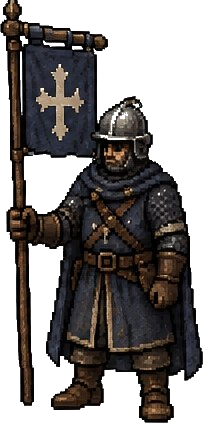
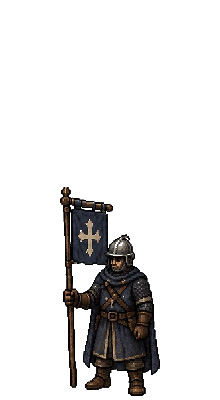
pano: нормализовать стражу под один масштаб торса
Все 01–16 → холст 220×400, одинаковая ширина торса; ряд без джиттера.

diff --git a/map.html b/map.html
@@ -1763,7 +1763,7 @@ function renderPano(npName, settlement, terrainHint, seasonName) {
   // Деревенские дворы: случайный спрайт из assets/houses/01..08.png (seeded rng).
   const HOUSE_SPRITES=['assets/houses/01.png','assets/houses/02.png','assets/houses/03.png','assets/houses/04.png','assets/houses/05.png','assets/houses/06.png','assets/houses/07.png','assets/houses/08.png'];
   const SHOP_SPRITES=['assets/shops/01.png','assets/shops/02.png','assets/shops/03.png','assets/shops/04.png','assets/shops/05.png','assets/shops/06.png','assets/shops/07.png','assets/shops/08.png'];
-  const GUARD_SPRITES=['assets/guards/01.png?v=4','assets/guards/02.png?v=4','assets/guards/03.png?v=4','assets/guards/04.png?v=4','assets/guards/05.png?v=4','assets/guards/06.png?v=4','assets/guards/07.png?v=4','assets/guards/08.png?v=4','assets/guards/09.png?v=4','assets/guards/10.png?v=4','assets/guards/11.png?v=4','assets/guards/12.png?v=4','assets/guards/13.png?v=4','assets/guards/14.png?v=4','assets/guards/15.png?v=4','assets/guards/16.png?v=4'];
+  const GUARD_SPRITES=['assets/guards/01.png?v=5','assets/guards/02.png?v=5','assets/guards/03.png?v=5','assets/guards/04.png?v=5','assets/guards/05.png?v=5','assets/guards/06.png?v=5','assets/guards/07.png?v=5','assets/guards/08.png?v=5','assets/guards/09.png?v=5','assets/guards/10.png?v=5','assets/guards/11.png?v=5','assets/guards/12.png?v=5','assets/guards/13.png?v=5','assets/guards/14.png?v=5','assets/guards/15.png?v=5','assets/guards/16.png?v=5'];
   function miniHut(x,y,sc){
     const bw=15*sc, bh=bw*1.22;
     const src=HOUSE_SPRITES[Math.floor(rng()*HOUSE_SPRITES.length)];
@@ -1775,8 +1775,8 @@ function renderPano(npName, settlement, terrainHint, seasonName) {
     return `<image href="${src}" x="${x-bw/2}" y="${y-bh}" width="${bw}" height="${bh}" preserveAspectRatio="xMidYMax meet" pointer-events="none"/>`;
   }
   function miniGuard(x,y,sc){
-    // Фикс. высота фигуры: широкий бокс → meet всегда упирается в высоту (иначе широкие спрайты мельчают).
-    const bh=52*sc, bw=bh*1.35;
+    // Ассеты нормализованы 220×400 (одинаковый торс) — фикс. высота + тот же аспект.
+    const bh=52*sc, bw=bh*0.55;
     const src=GUARD_SPRITES[Math.floor(rng()*GUARD_SPRITES.length)];
     return `<image href="${src}" x="${x-bw/2}" y="${y-bh}" width="${bw}" height="${bh}" preserveAspectRatio="xMidYMax meet" pointer-events="none"/>`;
   }

diff --git a/player.html b/player.html
@@ -1374,7 +1374,7 @@ function renderPano(npName, settlement, terrainHint, seasonName) {
   // Деревенские дворы: случайный спрайт из assets/houses/01..08.png (seeded rng).
   const HOUSE_SPRITES=['assets/houses/01.png','assets/houses/02.png','assets/houses/03.png','assets/houses/04.png','assets/houses/05.png','assets/houses/06.png','assets/houses/07.png','assets/houses/08.png'];
   const SHOP_SPRITES=['assets/shops/01.png','assets/shops/02.png','assets/shops/03.png','assets/shops/04.png','assets/shops/05.png','assets/shops/06.png','assets/shops/07.png','assets/shops/08.png'];
-  const GUARD_SPRITES=['assets/guards/01.png?v=4','assets/guards/02.png?v=4','assets/guards/03.png?v=4','assets/guards/04.png?v=4','assets/guards/05.png?v=4','assets/guards/06.png?v=4','assets/guards/07.png?v=4','assets/guards/08.png?v=4','assets/guards/09.png?v=4','assets/guards/10.png?v=4','assets/guards/11.png?v=4','assets/guards/12.png?v=4','assets/guards/13.png?v=4','assets/guards/14.png?v=4','assets/guards/15.png?v=4','assets/guards/16.png?v=4'];
+  const GUARD_SPRITES=['assets/guards/01.png?v=5','assets/guards/02.png?v=5','assets/guards/03.png?v=5','assets/guards/04.png?v=5','assets/guards/05.png?v=5','assets/guards/06.png?v=5','assets/guards/07.png?v=5','assets/guards/08.png?v=5','assets/guards/09.png?v=5','assets/guards/10.png?v=5','assets/guards/11.png?v=5','assets/guards/12.png?v=5','assets/guards/13.png?v=5','assets/guards/14.png?v=5','assets/guards/15.png?v=5','assets/guards/16.png?v=5'];
   function miniHut(x,y,sc){
     const bw=15*sc, bh=bw*1.22;
     const src=HOUSE_SPRITES[Math.floor(rng()*HOUSE_SPRITES.length)];
@@ -1386,8 +1386,8 @@ function renderPano(npName, settlement, terrainHint, seasonName) {
     return `<image href="${src}" x="${x-bw/2}" y="${y-bh}" width="${bw}" height="${bh}" preserveAspectRatio="xMidYMax meet" pointer-events="none"/>`;
   }
   function miniGuard(x,y,sc){
-    // Фикс. высота фигуры: широкий бокс → meet всегда упирается в высоту (иначе широкие спрайты мельчают).
-    const bh=52*sc, bw=bh*1.35;
+    // Ассеты нормализованы 220×400 (одинаковый торс) — фикс. высота + тот же аспект.
+    const bh=52*sc, bw=bh*0.55;
     const src=GUARD_SPRITES[Math.floor(rng()*GUARD_SPRITES.length)];
     return `<image href="${src}" x="${x-bw/2}" y="${y-bh}" width="${bw}" height="${bh}" preserveAspectRatio="xMidYMax meet" pointer-events="none"/>`;
   }
